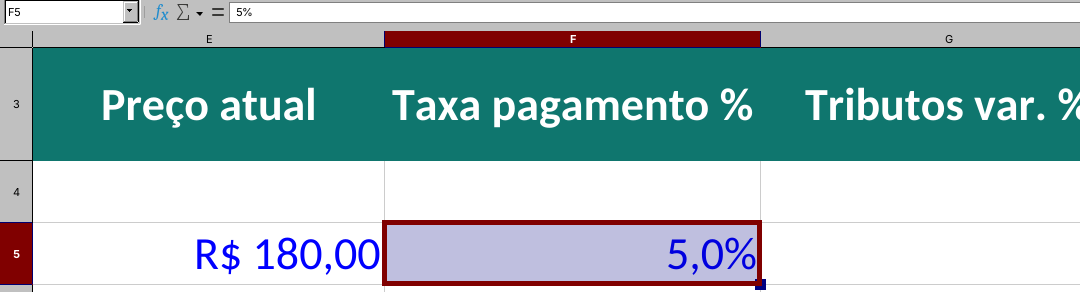
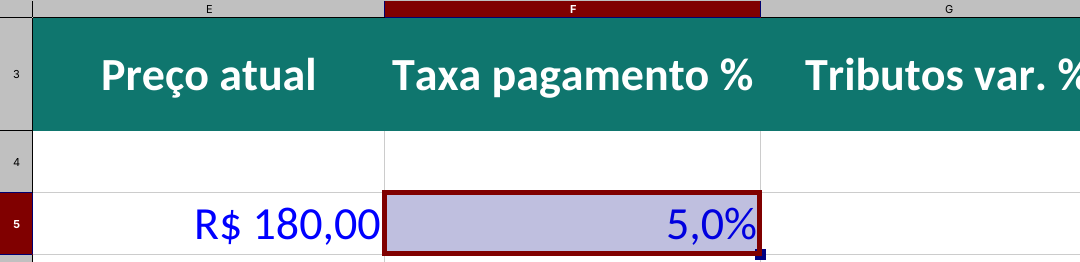
fix(shorts-v3.7): sem barra de fórmulas; bloco da prova centrado; diagnóstico de texto
Ensaio por PR 43664844807 (júri real): 9,4 — gancho 9,5, prova 9,5,
oferta 9,5, marca 9,5, legibilidade 8,5; objetiva texto_nao_reconhecido.
Júri: "textos e fórmulas muito pequenos no trecho superior da planilha" e
"espaço vazio entre o conteúdo e a legenda".

- Tela começa nas letras das colunas: a barra de fórmulas usa fonte de
  interface, que não escala com o zoom.
- Bloco da prova (tela + seta + close-up) centrado entre o título e o
  fim do conteúdo (1180); legenda em y=1300.
- render: TEXTO_V3 registra, por estado do vídeo, o texto não lido, a
  tinta sem leitura e o que ficou fora da área segura (diagnóstico real).
Suíte 1975/1975.

Claude-Session: https://claude.ai/code/session_013qEayJV2BctKApuM3NnNgu

diff --git a/scripts/shorts-v3/quadros.py b/scripts/shorts-v3/quadros.py
@@ -51,7 +51,7 @@ N = spec["numeros"]; O = spec["oferta"]; brl = lambda v: "R$ " + f"{v:,}".replac
 # v3.1 (júri real 8,2 — run 43538539233): conteúdo ocupa toda a área útil acima da faixa da legenda falada, planilha
 # REAL em capturas grandes (LibreOffice pt-BR, 400 dpi), sem rótulos "ilustrativo", capa grande, textos longe da borda.
 # Faixa y 1280–1460 = legenda falada (render.mjs, \pos(470,1380)); abaixo de 1470 = interface do Shorts.
-CAP = ROOT / "assets/shorts-v3/lcx"; CB = 1150  # v3.7 (júri: legenda em y≈1330 com respiro): conteúdo até 1150
+CAP = ROOT / "assets/shorts-v3/lcx"; CB = 1180  # v3.7: legenda em y≈1300; conteúdo até 1180 (júri oscilou entre "apertado" com 1240 e "vazio" com 1150)
 def captura(d, nome, x, y, largura):
     s = Image.open(CAP / nome).convert("RGB"); s = s.resize((largura, round(s.height * largura / s.width)), Image.LANCZOS)
     d.rounded_rectangle((x - 8, y - 8, x + largura + 8, y + s.height + 8), 14, fill=(255, 255, 255)); d.im.paste(s, (x, y))
@@ -74,7 +74,7 @@ def tela(d, nome, y):
     vazia até a borda: júri real 8,5 — "grade cortada e vazia"; retirada.) Seta do cabeçalho da coluna ao close-up."""
     c = PROV["celulas"][nome]; arq = CAP / Path(c["tela"]).name; s = Image.open(arq).convert("RGB")
     d.im.paste(s, (0, y)); med["provaReal"] = True; fim = y + s.height
-    px = s.load(); xs = next((v for v in ([i for i in range(s.width) if px[i, yy][:3] == (128, 0, 0)] for yy in range(0, 80)) if v), [])
+    px = s.load(); xs = next((v for v in ([i for i in range(s.width) if px[i, yy][:3] == (128, 0, 0)] for yy in range(0, 60)) if v), [])
     cx = round((min(xs) + max(xs)) / 2) if xs else (64 + SAFE_R) // 2
     seta(d, min(cx, SAFE_R - 40), fim + 4, fim + 44)
     return fim + 48
@@ -97,10 +97,18 @@ def q_gancho(d):
             d.polygon([(cx, cy - t // 2), (cx - t // 2, cy), (cx - t // 6, cy), (cx - t // 6, cy + t // 2), (cx + t // 6, cy + t // 2), (cx + t // 6, cy), (cx + t // 2, cy)], fill=cor)
         else:
             d.text((cx, cy), val, font(t), cor, anchor="mm")
+def bloco_prova(nome, extra=0):
+    """altura de tela + seta + cartão do close-up (mesmas contas de tela() e celula())"""
+    c = PROV["celulas"][nome]; t = Image.open(CAP / Path(c["tela"]).name); s_ = Image.open(CAP / Path(c["arquivo"]).name)
+    larg = round((SAFE_R - 64) * float(spec.get("escala_celulas", 1)))
+    return t.height + 48 + round(s_.height * larg / s_.width) + 86 + extra
+def centro(y_min, altura, fim=CB):
+    """v3.7 (júri oscilou entre "apertado" e "vazio"): o bloco fica centrado entre o título e o fim do conteúdo"""
+    return y_min + max(0, (fim - y_min - altura) // 2)
 def q_venda(d):
     d.text((64, 290), "PASSO 1 · EXEMPLO DE VENDA: TÊNIS", font(44), BLUE)
     y = rich(d, 64, 350, "Sua última venda.", font(84), hl=("última", "venda.")) + 26
-    celula(d, "preco", tela(d, "preco", y))
+    celula(d, "preco", tela(d, "preco", centro(y, bloco_prova("preco"))))
 def seta(d, x, y0, y1, cor=YEL):
     d.line((x, y0, x, y1 - 26), fill=cor, width=10); d.polygon([(x - 26, y1 - 30), (x + 26, y1 - 30), (x, y1)], fill=cor)
 def q_conta(d, etapa):
@@ -114,17 +122,17 @@ def q_conta(d, etapa):
             d.text((110, y0), a, font(54), MUTED); d.text((110, y0 + 84), b, font(fv), c)
             yy += h + gap
         return
-    y = celula(d, "contribuicao", tela(d, "contribuicao", 350)) + 4
+    y = celula(d, "contribuicao", tela(d, "contribuicao", centro(350, bloco_prova("contribuicao", 4 + 170)))) + 4
     d.rectangle((0, y, W, CB), fill=(10, 60, 40)); d.rectangle((0, y, W, y + 6), fill=(40, 200, 120)); d.rectangle((0, CB - 6, W, CB), fill=(40, 200, 120))
     d.text(((64 + SAFE_R) // 2, (y + CB) // 2), "Sobram " + brl(N["margem_antes_fixas"]), font(min(110, CB - y - 30)), GREEN, anchor="mm")
 def q_planilha(d):
     d.text((64, 290), "PLANILHA REAL · LIBREOFFICE CALC", font(44), BLUE)
     y = rich(d, 64, 350, "A margem aparece na hora.", font(80), hl=("margem",)) + 26
-    celula(d, "margem", tela(d, "margem", y))
+    celula(d, "margem", tela(d, "margem", centro(y, bloco_prova("margem"))))
 def q_desconto(d):
     d.text((64, 290), "PLANILHA REAL · LIBREOFFICE CALC", font(44), BLUE)
     y = rich(d, 64, 350, "O seu limite de desconto.", font(80), hl=("limite",)) + 26
-    celula(d, "desconto", tela(d, "desconto", y))
+    celula(d, "desconto", tela(d, "desconto", centro(y, bloco_prova("desconto"))))
 MANUAL = "manual-topo.png"  # v3.5: topo REAL da capa do manual (recorte sem retoque), em largura total e legível
 def capa(d, y, largura=SAFE_R - 64):
     return captura(d, MANUAL, (64 + SAFE_R - largura) // 2, y, largura)

diff --git a/scripts/shorts-v3/capturar_planilha.py b/scripts/shorts-v3/capturar_planilha.py
@@ -21,7 +21,8 @@ SEL = (128, 0, 0)  # cor do cabeçalho da coluna/linha selecionada no Calc (tema
 # contexto: da barra de fórmulas (nome da célula + fórmula) até a barra de status, sem menus/ferramentas nem painel lateral
 # v3.7: tela a 300%, 1080 de largura (sangra a largura do Short), da barra de fórmulas ao fim da linha 5; a coluna da
 # célula termina a pelo menos FOLGA_DIREITA px da borda (júri real: "corta o 2,2% na borda direita").
-CORTE_TELA = (0, 80, 1080, ALTURA_CONTEXTO); ZOOM_TELA = 300; ROTULO_LINHAS = 33; RODAPE_CALC = 62
+# a partir das letras das colunas: a barra de fórmulas (fonte de interface, que não escala com o zoom) era "texto pequeno" para o júri
+CORTE_TELA = (0, 110, 1080, ALTURA_CONTEXTO); ZOOM_TELA = 300; ROTULO_LINHAS = 33; RODAPE_CALC = 62
 FOLGA_DIREITA = 80  # a coluna da célula termina a >= 80 px da borda: nada cortado colado ao valor
 
 def _p(n, v):
